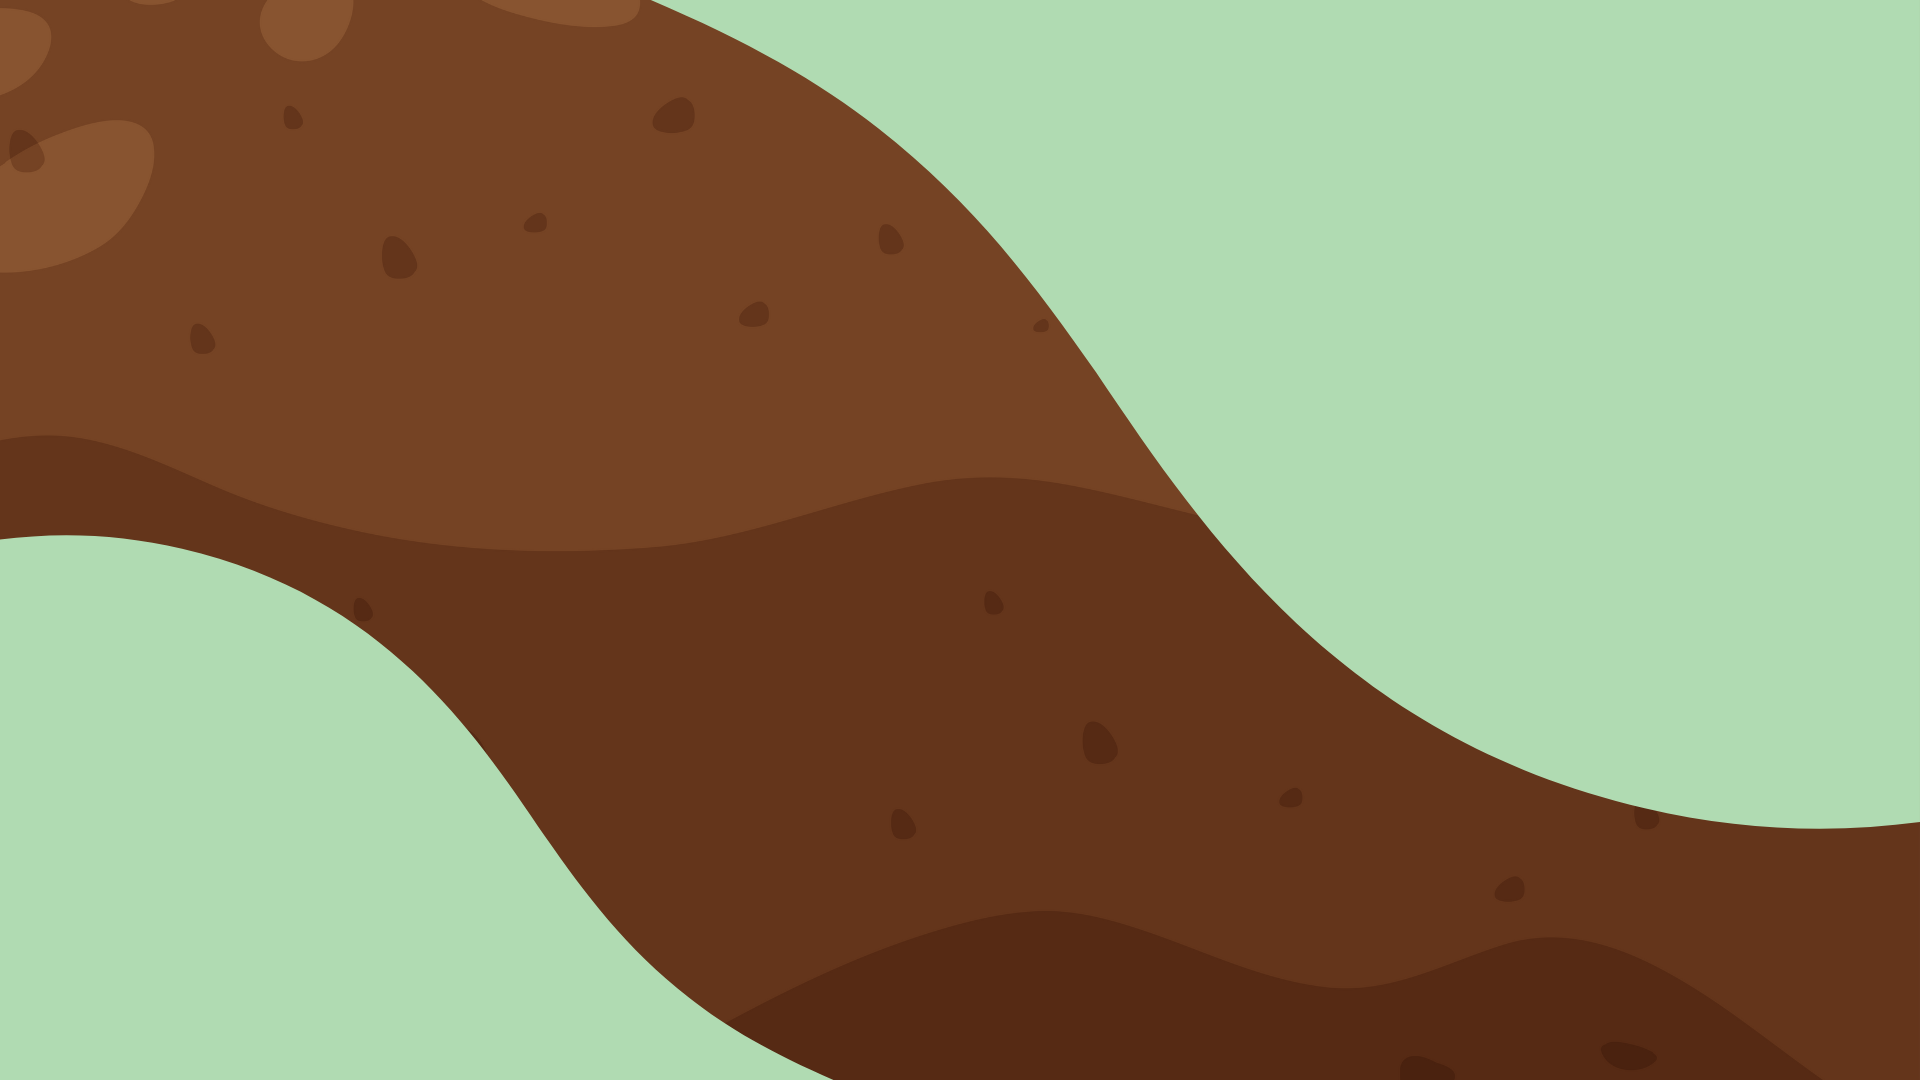
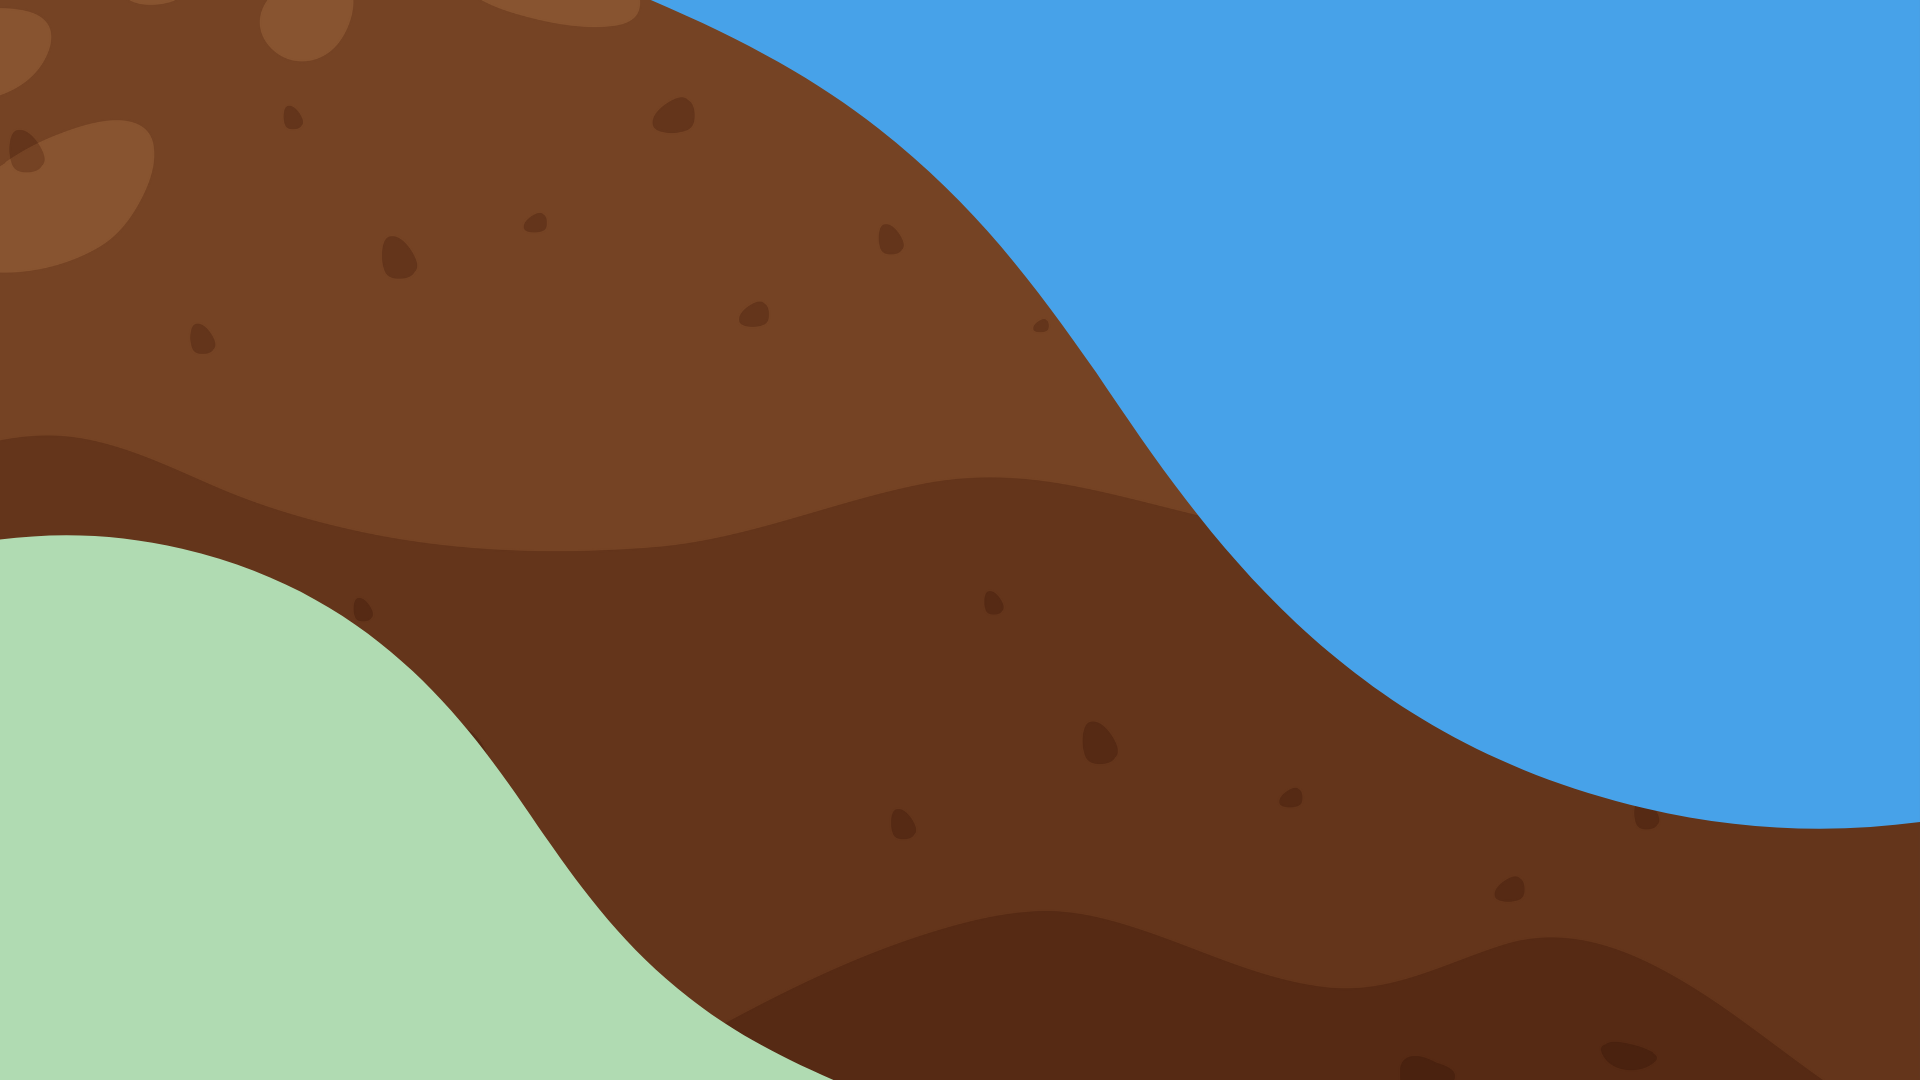
base layout of all pages complete

diff --git a/stylesheet.css b/stylesheet.css
@@ -6,7 +6,9 @@ html {
     height: 100%;
     overflow-x: hidden;
     scroll-behavior: smooth;
+
 }
+
 
 /* Backgrounds */
 .index-bg {
@@ -19,6 +21,11 @@ html {
 
 .veggie-profiles-bg {
     background-image: url(images/veggie\ profiles/veggie-profiles-5.png);
+    background-size: cover;
+}
+
+.tips-and-tricks-bg {
+    background-image: url(images/tips\ and\ tricks/tips-and-tricks.png);
     background-size: cover;
 }
 
@@ -149,6 +156,10 @@ html {
     padding-left: 50px;
 }
 
+.content-padding {
+    padding-top: 10%;
+}
+
 .text-card {
     margin-top: 10%;
     margin-bottom: 3%;
@@ -201,6 +212,51 @@ html {
     min-height: 140%;
     display: block;
     object-fit: cover;
+}
+
+.image-card-2 {
+    border-radius: 50%;
+    box-shadow: 0 4px 8px rgba(0, 0, 0, 0.5);
+    display: flex;
+    justify-content: center;
+    align-items: center;
+    width: 400px;
+    height: 400px;
+    margin: 0 auto;
+    overflow: hidden;
+}
+
+.image-card-2 img {
+    width: auto;
+    height: auto;
+    min-width: 130%;
+    min-height: 130%;
+    display: block;
+    object-fit: cover;
+    border-radius: 50%;
+}
+
+/* Image card for person */
+.image-card-person {
+    border-radius: 50%;
+    box-shadow: 0 4px 8px rgba(0, 0, 0, 0.7);
+    display: flex;
+    justify-content: center;
+    align-items: center;
+    width: 400px;
+    height: 400px;
+    margin: 0 auto;
+    overflow: hidden;
+}
+
+.image-card-person img {
+    width: auto;
+    height: auto;
+    min-width: 140%;
+    min-height: 140%;
+    display: block;
+    object-fit: cover;
+    border-radius: 50%;
 }
 
 /* Veggie Bunch */
@@ -284,29 +340,6 @@ html {
     flex-grow: 1;
 }
 
-/* Image card for person */
-.image-card-person {
-    border-radius: 50%;
-    box-shadow: 0 4px 8px rgba(0, 0, 0, 0.7);
-    display: flex;
-    justify-content: center;
-    align-items: center;
-    width: 400px;
-    height: 400px;
-    margin: 0 auto;
-    overflow: hidden;
-}
-
-.image-card-person img {
-    width: auto;
-    height: auto;
-    min-width: 140%;
-    min-height: 140%;
-    display: block;
-    object-fit: cover;
-    border-radius: 50%;
-}
-
 /* parallax styles */
 .parallax-container {
     height: 100vh;
@@ -335,6 +368,7 @@ html {
 /* footer styles */
 .footer-style {
     background-color: #02d08b;
+    width: 100%;
 }
 
 /* Styling for carousel images */

diff --git a/tips & tricks.html b/tips & tricks.html
@@ -21,7 +21,7 @@
 
 </Head>
 
-<body> <!-- bootstrap column here -->
+<body class="tips-and-tricks-bg"> <!-- bootstrap column here -->
     <header>
         <nav class="navbar navbar-expand-sm fixed-top">
             <div class="container-fluid justify-content-between">
@@ -47,11 +47,53 @@
         </nav>
     </header>
 
+    <div class="container py-5"> <!--body container-->
+        <div class="row gy-5 mobile content-padding">
+            <div class="col-sm-4">
+                <div class="image-card-2">
+                    <img src="images/tips and tricks/bullseye.png" class="img-fluid" alt="bullseye">
+                </div>
+            </div>
+            <div class="col-sm-4 text-card">
+
+            </div>
+            <div class="col-sm-4">
+                <div class="image-card-2">
+                    <img src="images/tips and tricks/magnifine-glass.png" class="img-fluid" alt="magnifying glass">
+                </div>
+            </div>
+        </div>
+
+        <!--body container 2-->
+        <div class="row gy-5 mt-5 mobile ">
+            <div class="col-sm-4 text-card">
+
+            </div>
+            <div class="col-sm-4">
+                <div class="image-card-2">
+                    <img src="images/tips and tricks/light-bulb.png" class="img-fluid" alt="light bulb">
+                </div>
+            </div>
+            <div class="col-sm-4 text-card">
+
+            </div>
+        </div>
+    </div>
+
+    <!--Footer-->
+    <footer class="text-center footer-style">
+        <!-- Copyright -->
+        <div class="text-center">
+            © 2024 Luke Pretorius
+        </div>
+    </footer>
 
     <!-- Boostrap JavaScript (placed before the closing </body> for performance) -->
     <script src="https://cdn.jsdelivr.net/npm/bootstrap@5.3.3/dist/js/bootstrap.bundle.min.js"
         integrity="sha384-YvpcrYf0tY3lHB60NNkmXc5s9fDVZLESaAA55NDzOxhy9GkcIdslK1eN7N6jIeHz"
         crossorigin="anonymous"></script>
+
+
 
 </body>
 
